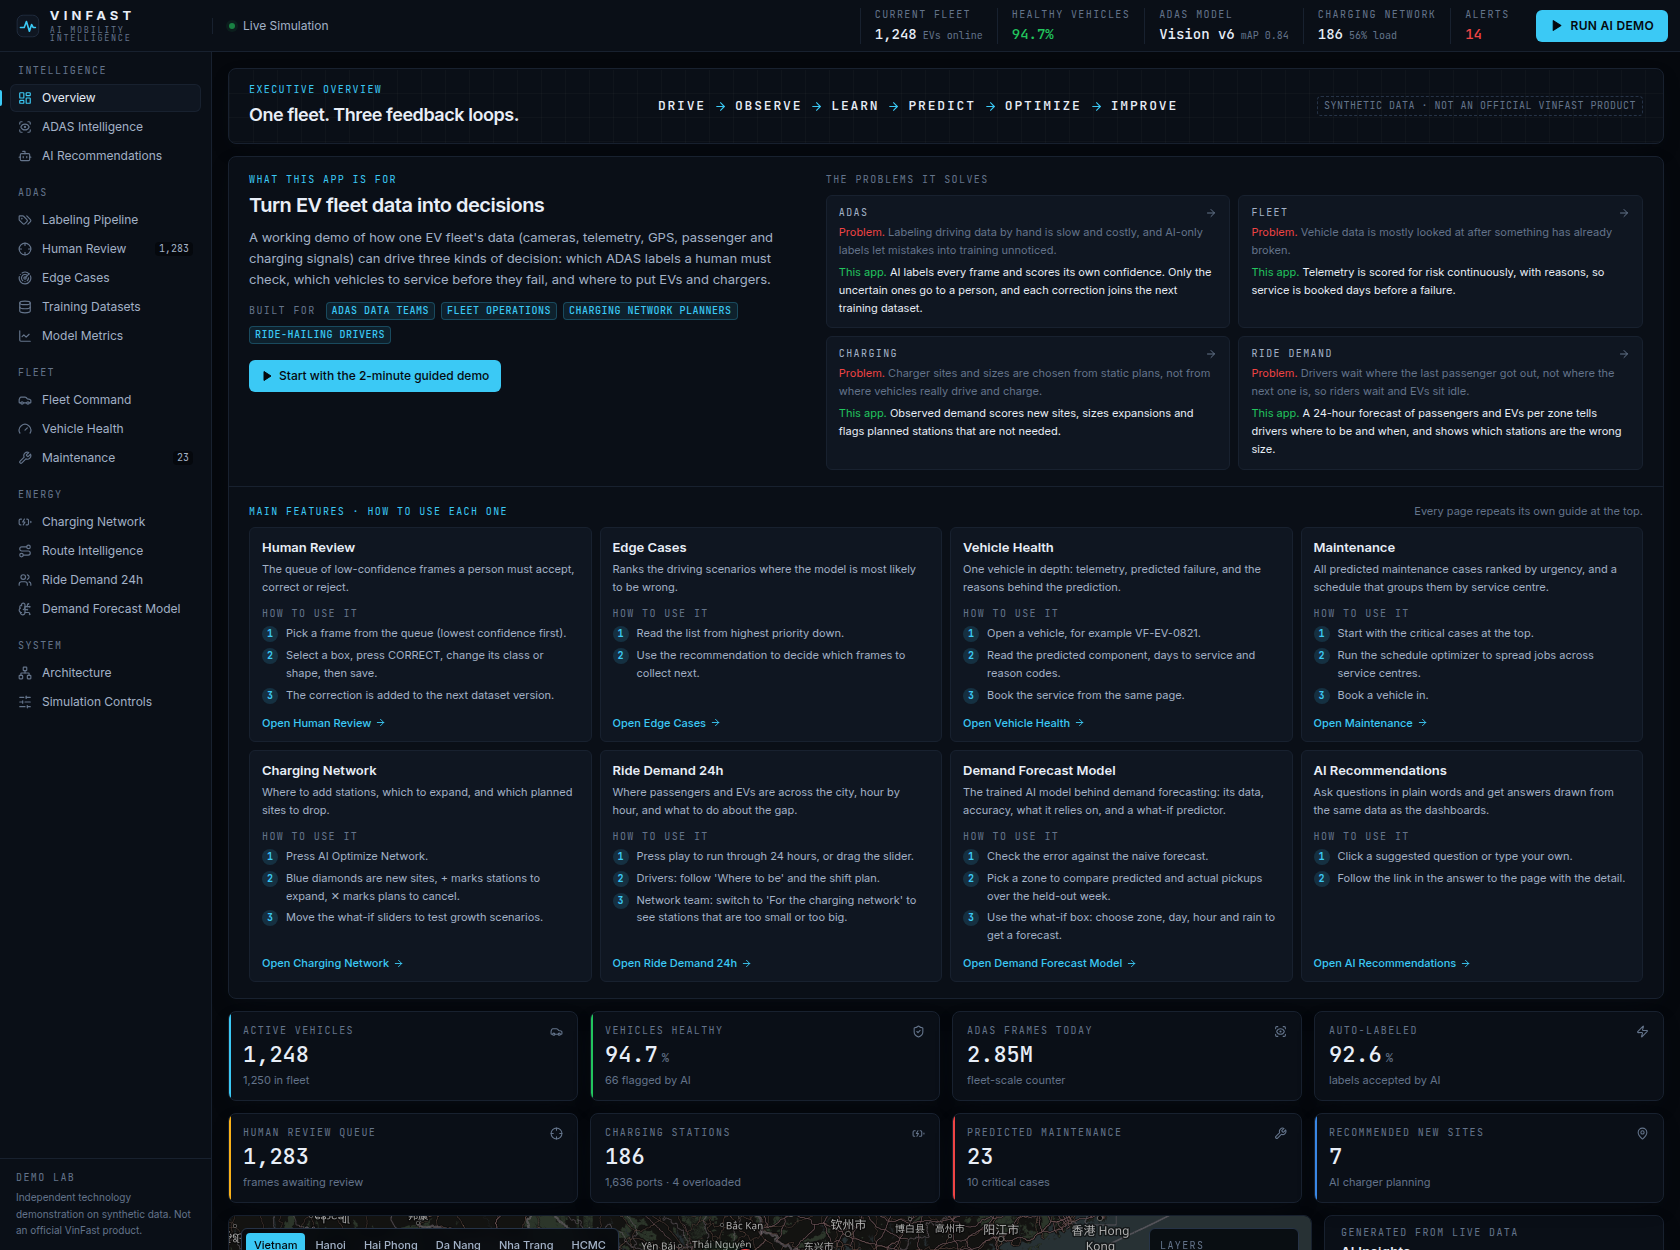
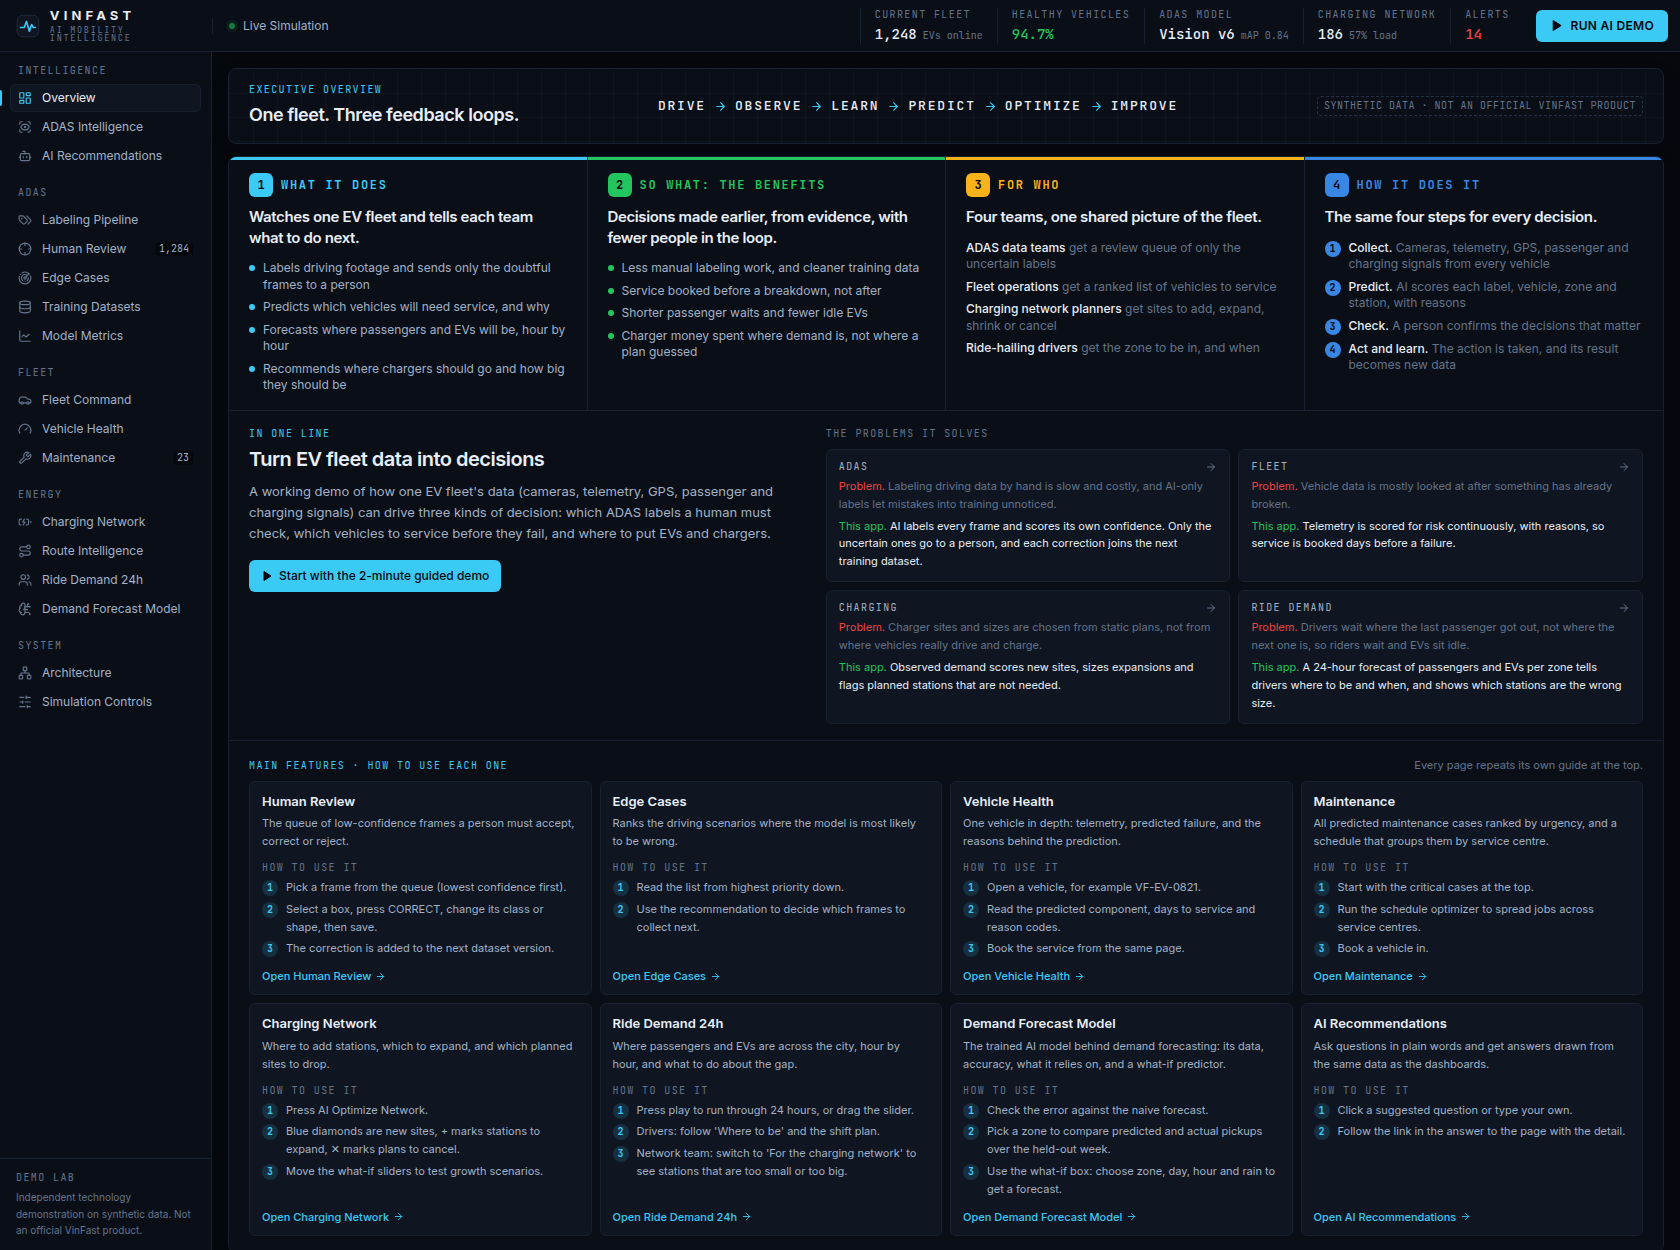
Lead the Overview with what it does, the benefits, who it is for and how

Changed region(s): [[0.1238, 0.1248, 0.9595, 1.0]]

diff --git a/frontend/src/components/Guide.tsx b/frontend/src/components/Guide.tsx
@@ -1,9 +1,10 @@
 import { ArrowRight, ChevronDown, ChevronUp, HelpCircle, Play } from "lucide-react";
-import { useState } from "react";
+import { useState, type ReactNode } from "react";
 import { Link, useLocation, useNavigate } from "react-router-dom";
 import { runDemo } from "../lib/demo";
-import { APP_PURPOSE, MAIN_FEATURES, PAGE_GUIDE, PROBLEMS } from "../lib/guide";
-import { Badge, Button } from "./ui";
+import { C } from "../lib/format";
+import { APP_PURPOSE, MAIN_FEATURES, PAGE_GUIDE, PITCH, PROBLEMS } from "../lib/guide";
+import { Button } from "./ui";
 
 const HIDE_KEY = "guide-hidden";
 
@@ -25,6 +26,32 @@ function Steps({ steps }: { steps: string[] }) {
         </li>
       ))}
     </ol>
+  );
+}
+
+function PitchCard({ n, color, label, lead, children }: { n: number; color: string; label: string; lead: string; children: ReactNode }) {
+  return (
+    <div className="relative border-b border-line px-5 py-4 last:border-b-0 md:border-r md:last:border-r-0 xl:border-b-0" style={{ boxShadow: `inset 0 3px 0 ${color}` }}>
+      <div className="flex items-center gap-2">
+        <span className="num flex h-6 w-6 items-center justify-center rounded-md text-xs font-bold text-abyss" style={{ background: color }}>{n}</span>
+        <span className="font-mono text-xs font-bold uppercase tracking-[0.14em]" style={{ color }}>{label}</span>
+      </div>
+      <p className="mt-2.5 text-[15px] font-semibold leading-snug tracking-tight text-ink">{lead}</p>
+      <div className="mt-3">{children}</div>
+    </div>
+  );
+}
+
+function Bullets({ items, color }: { items: string[]; color: string }) {
+  return (
+    <ul className="space-y-1.5">
+      {items.map((item) => (
+        <li key={item} className="flex gap-2 text-xs leading-snug text-ink-2">
+          <span className="mt-[5px] h-1.5 w-1.5 shrink-0 rounded-full" style={{ background: color }} />
+          <span>{item}</span>
+        </li>
+      ))}
+    </ul>
   );
 }
 
@@ -80,17 +107,43 @@ export function AppGuide() {
   const navigate = useNavigate();
   return (
     <section className="panel overflow-hidden">
+      {/* the four questions a first-time visitor asks, in order */}
+      <div className="grid border-b border-line md:grid-cols-2 xl:grid-cols-4">
+        <PitchCard n={1} color={C.accent} label={PITCH.what.label} lead={PITCH.what.lead}>
+          <Bullets items={PITCH.what.points} color={C.accent} />
+        </PitchCard>
+        <PitchCard n={2} color={C.good} label={PITCH.benefits.label} lead={PITCH.benefits.lead}>
+          <Bullets items={PITCH.benefits.points} color={C.good} />
+        </PitchCard>
+        <PitchCard n={3} color={C.warn} label={PITCH.who.label} lead={PITCH.who.lead}>
+          <ul className="space-y-1.5">
+            {PITCH.who.roles.map((r) => (
+              <li key={r.role}>
+                <Link to={r.to} className="group block text-xs leading-snug">
+                  <span className="font-medium text-ink group-hover:text-accent">{r.role}</span>
+                  <span className="text-ink-3"> get {r.gets}</span>
+                </Link>
+              </li>
+            ))}
+          </ul>
+        </PitchCard>
+        <PitchCard n={4} color={C.info} label={PITCH.how.label} lead={PITCH.how.lead}>
+          <ol className="space-y-1.5">
+            {PITCH.how.steps.map((s, i) => (
+              <li key={s.name} className="flex gap-2 text-xs leading-snug">
+                <span className="num mt-px flex h-4 w-4 shrink-0 items-center justify-center rounded-full text-3xs font-bold text-abyss" style={{ background: C.info }}>{i + 1}</span>
+                <span><span className="font-medium text-ink">{s.name}.</span> <span className="text-ink-3">{s.text}</span></span>
+              </li>
+            ))}
+          </ol>
+        </PitchCard>
+      </div>
+
       <div className="grid gap-x-8 gap-y-4 border-b border-line px-5 py-4 lg:grid-cols-[minmax(0,2fr)_minmax(0,3fr)]">
         <div>
-          <div className="label text-accent">What this app is for</div>
+          <div className="label text-accent">In one line</div>
           <h2 className="mt-1 text-xl font-semibold tracking-tight text-ink">{APP_PURPOSE.headline}</h2>
           <p className="mt-2 text-[13px] leading-relaxed text-ink-2">{APP_PURPOSE.summary}</p>
-          <div className="mt-3 flex flex-wrap items-center gap-1.5">
-            <span className="label mr-1">Built for</span>
-            {APP_PURPOSE.audience.map((a) => (
-              <Badge key={a} tone="accent">{a}</Badge>
-            ))}
-          </div>
           <Button variant="primary" className="mt-4" onClick={() => void runDemo(navigate)}>
             <Play size={12} fill="currentColor" /> Start with the 2-minute guided demo
           </Button>

diff --git a/frontend/src/lib/guide.ts b/frontend/src/lib/guide.ts
@@ -4,7 +4,50 @@ export const APP_PURPOSE = {
   headline: "Turn EV fleet data into decisions",
   summary:
     "A working demo of how one EV fleet's data (cameras, telemetry, GPS, passenger and charging signals) can drive three kinds of decision: which ADAS labels a human must check, which vehicles to service before they fail, and where to put EVs and chargers.",
-  audience: ["ADAS data teams", "Fleet operations", "Charging network planners", "Ride-hailing drivers"],
+};
+
+/** The four questions a first-time visitor asks, answered at the top of the Overview. */
+export const PITCH = {
+  what: {
+    label: "What it does",
+    lead: "Watches one EV fleet and tells each team what to do next.",
+    points: [
+      "Labels driving footage and sends only the doubtful frames to a person",
+      "Predicts which vehicles will need service, and why",
+      "Forecasts where passengers and EVs will be, hour by hour",
+      "Recommends where chargers should go and how big they should be",
+    ],
+  },
+  benefits: {
+    label: "So what: the benefits",
+    lead: "Decisions made earlier, from evidence, with fewer people in the loop.",
+    points: [
+      "Less manual labeling work, and cleaner training data",
+      "Service booked before a breakdown, not after",
+      "Shorter passenger waits and fewer idle EVs",
+      "Charger money spent where demand is, not where a plan guessed",
+    ],
+  },
+  who: {
+    label: "For who",
+    lead: "Four teams, one shared picture of the fleet.",
+    roles: [
+      { role: "ADAS data teams", gets: "a review queue of only the uncertain labels", to: "/adas/review" },
+      { role: "Fleet operations", gets: "a ranked list of vehicles to service", to: "/fleet/maintenance" },
+      { role: "Charging network planners", gets: "sites to add, expand, shrink or cancel", to: "/energy/charging" },
+      { role: "Ride-hailing drivers", gets: "the zone to be in, and when", to: "/energy/demand" },
+    ],
+  },
+  how: {
+    label: "How it does it",
+    lead: "The same four steps for every decision.",
+    steps: [
+      { name: "Collect", text: "Cameras, telemetry, GPS, passenger and charging signals from every vehicle" },
+      { name: "Predict", text: "AI scores each label, vehicle, zone and station, with reasons" },
+      { name: "Check", text: "A person confirms the decisions that matter" },
+      { name: "Act and learn", text: "The action is taken, and its result becomes new data" },
+    ],
+  },
 };
 
 export const PROBLEMS = [
